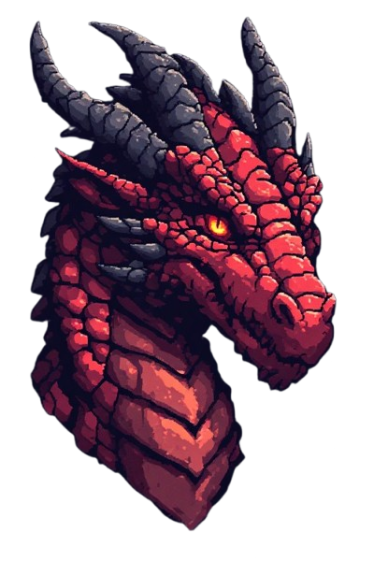
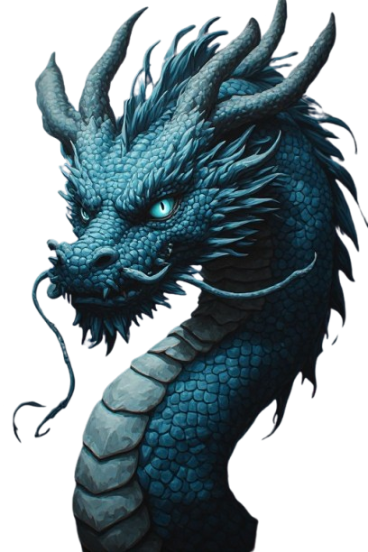
dragonsizes

diff --git a/index.html b/index.html
@@ -321,8 +321,8 @@ tr:last-child td { border-bottom: 0; }
 .dragon-call.is-in { opacity: 1; pointer-events: auto; }
 .dragon-call .dc-scrim { position: absolute; inset: -8px 0; background: radial-gradient(ellipse at 50% 30%, rgba(0,0,0,.35), rgba(0,0,0,.82) 80%); cursor: pointer; }
 .dragon-call .dc-inner { --dragon: #f3c14b; position: sticky; top: calc(var(--topbar-h, 58px) + 12vh); margin-top: 6vh; z-index: 1; width: min(560px, 100%); text-align: center; padding: 8px 16px 18px; cursor: pointer; }
-.dc-dragon { width: min(400px, 78%); margin: 0 auto; color: var(--dragon); filter: drop-shadow(0 0 22px color-mix(in srgb, var(--dragon) 55%, transparent)); transform: translateY(26px) scale(.9); transition: transform 1.1s cubic-bezier(.2, .9, .3, 1); }
-.dc-dragon svg, .dc-dragon img { display: block; width: 100%; height: auto; }
+.dc-dragon { width: min(300px, 70%); margin: 0 auto; color: var(--dragon); filter: drop-shadow(0 0 22px color-mix(in srgb, var(--dragon) 55%, transparent)); transform: translateY(26px) scale(.9); transition: transform 1.1s cubic-bezier(.2, .9, .3, 1); }
+.dc-dragon svg, .dc-dragon img { display: block; width: 100%; height: auto; max-height: 30vh; margin: 0 auto; object-fit: contain; }
 .dc-dragon img { image-rendering: pixelated; }
 .dragon-call.is-in .dc-dragon { transform: none; animation: dragonFloat 3.2s ease-in-out .9s infinite alternate; }
 @keyframes dragonFloat { to { transform: translateY(-8px); } }
